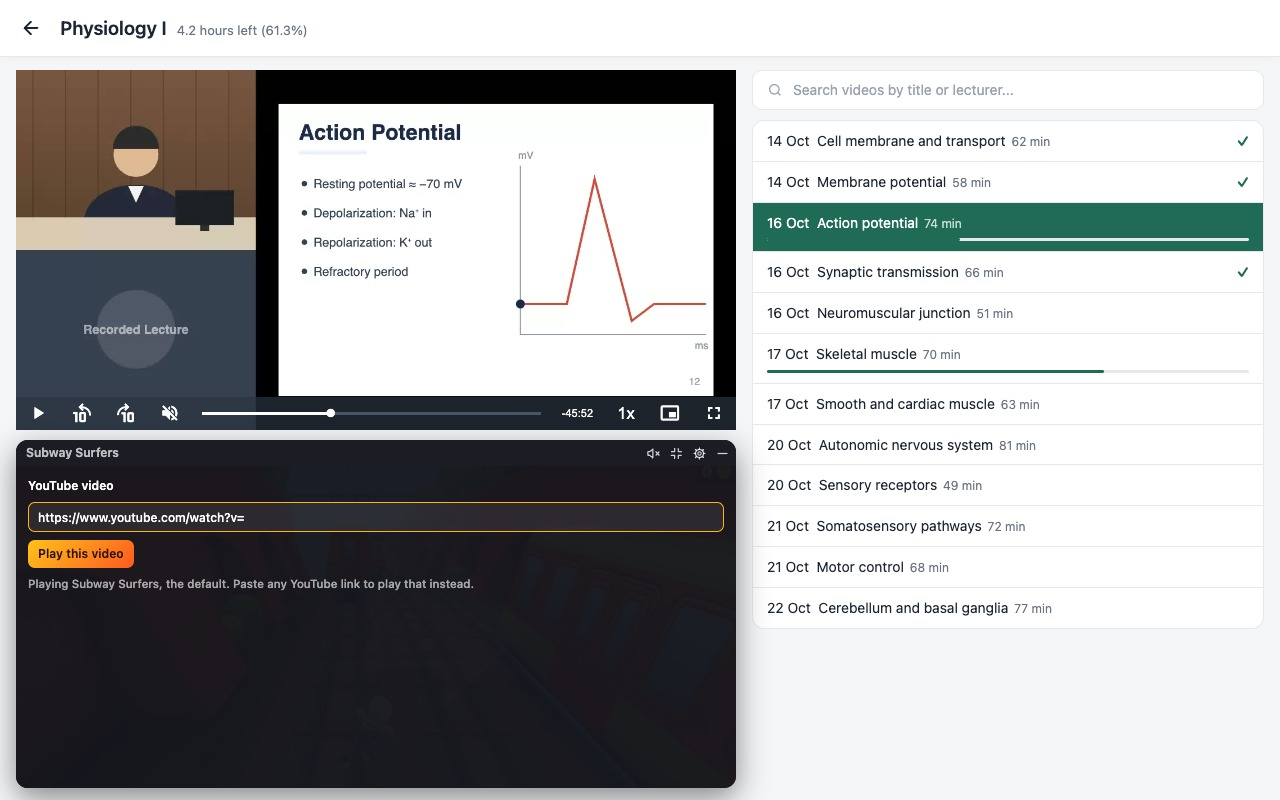
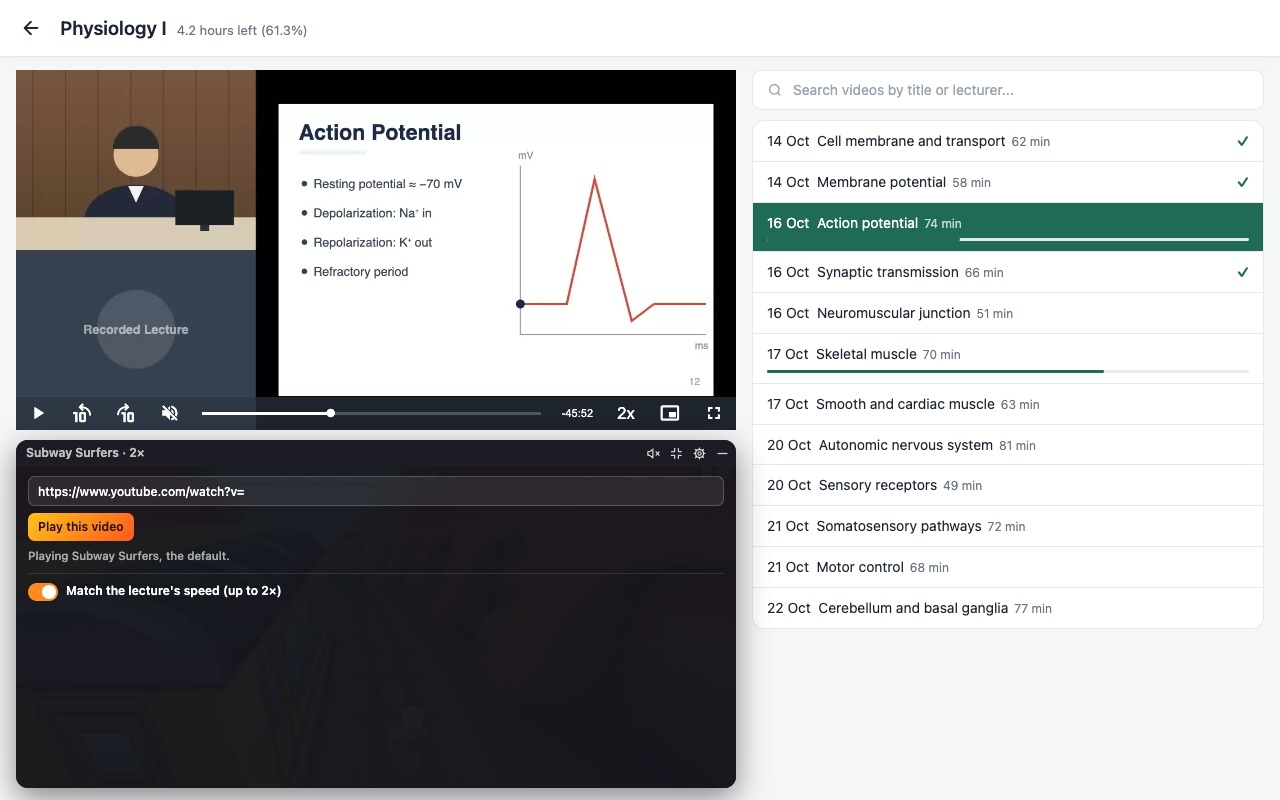
Let the video match the lecture's speed, as a setting that starts off

Changed region(s): [[0.0, 0.5938, 0.5625, 0.75]]

diff --git a/content/surfer.js b/content/surfer.js
@@ -73,6 +73,7 @@
         visible: true,
         fill: true,
         videoId: null,          // null plays DEFAULT_VIDEO; anything else was chosen in settings
+        syncSpeed: false,       // play at the lecture's speed (settings)
         layouts: {
             page: { w: 320, h: 180 + BAR_H, fx: 1, fy: 1 },
             // Null until the window is moved in full screen: until then it is
@@ -80,7 +81,12 @@
             fullscreen: null,
         },
     };
-    const YT_ENDED = 0;         // player state in the IFrame API's vocabulary
+    const YT_ENDED = 0;         // player states in the IFrame API's vocabulary
+    const YT_PLAYING = 1;
+    // The embedded player's speed range. A lecture at 2.5x or 3x gets the
+    // fastest the gameplay can go.
+    const MIN_RATE = 0.25;
+    const MAX_RATE = 2;
     // The IFrame API's onError codes, in words.
     const YT_ERRORS = {
         100: 'This video is private or has been removed.',
@@ -192,12 +198,14 @@
         /* Settings, and the notice for a video that won't play: both cover the video, under the bar. */
         .panel, .notice {
             position: absolute; top: ${BAR_H}px; left: 0; right: 0; bottom: 0; overflow: auto;
-            display: flex; flex-direction: column; gap: 8px; padding: 12px;
+            display: flex; flex-direction: column; gap: 7px; padding: 10px 12px;
             border-radius: 0 0 12px 12px; background: rgba(22, 23, 30, .97);
             font-weight: 500; line-height: 1.35;
+            /* Chrome won't let a label's click flip its switch while text is selected, and
+               the link box opens with its text selected. Nothing else here needs selecting. */
+            user-select: none;
         }
         .notice { justify-content: center; align-items: center; text-align: center; }
-        .panel label { font-weight: 600; }
         .panel input {
             appearance: none; width: 100%; height: 30px; flex: none; padding: 0 9px;
             border: 1px solid rgba(255, 255, 255, .2); border-radius: 7px; outline: none;
@@ -214,6 +222,20 @@
         button.act.primary { background: linear-gradient(135deg, #ffc21a, #ff5a1f); color: #2a1300; }
         .msg { color: rgba(255, 255, 255, .62); font-size: 11.5px; }
         .msg.err { color: #ff9f8f; }
+        .panel hr { width: 100%; height: 1px; margin: 2px 0; border: 0; background: rgba(255, 255, 255, .12); flex: none; }
+        .switch { display: flex; align-items: center; gap: 8px; font-weight: 600; cursor: pointer; }
+        .switch input { position: absolute; opacity: 0; pointer-events: none; }
+        .switch i {
+            position: relative; flex: none; width: 30px; height: 18px; border-radius: 9px;
+            background: rgba(255, 255, 255, .22); transition: background .15s ease;
+        }
+        .switch i::after {
+            content: ''; position: absolute; top: 2px; left: 2px; width: 14px; height: 14px;
+            border-radius: 50%; background: #fff; transition: transform .15s ease;
+        }
+        .switch input:checked + i { background: #ff8a1f; }
+        .switch input:checked + i::after { transform: translateX(12px); }
+        .switch input:focus-visible + i { outline: 2px solid #fff; outline-offset: 2px; }
     `;
 
     const HTML = `
@@ -231,13 +253,16 @@
                 <button class="act revert" type="button">Back to Subway Surfers</button>
             </div>
             <form class="panel" hidden>
-                <label for="fws-url">YouTube video</label>
-                <input id="fws-url" type="text" placeholder="Paste a YouTube link" spellcheck="false" autocomplete="off">
+                <input id="fws-url" type="text" placeholder="Paste a YouTube link" aria-label="YouTube link" spellcheck="false" autocomplete="off">
                 <div class="row">
                     <button class="act primary" type="submit">Play this video</button>
                     <button class="act revert" type="button">Back to Subway Surfers</button>
                 </div>
                 <span class="msg"></span>
+                <hr>
+                <label class="switch" title="At 2× in Flick, the video plays at 2× too. YouTube's player stops at 2×.">
+                    <input class="sync" type="checkbox"><i></i>Match the lecture's speed (up to 2×)
+                </label>
             </form>
             <div class="shield"></div>
             ${['n', 's', 'e', 'w', 'ne', 'nw', 'se', 'sw'].map((d) => `<div class="rz ${d}" data-dir="${d}"></div>`).join('')}
@@ -246,10 +271,12 @@
     `;
 
     let state;                   // set from storage in start()
-    let host, win, stage, bar, pill, soundBtn, fitBtn, titleEl, panel, urlInput, panelMsg, notice;
+    let host, win, stage, bar, pill, soundBtn, fitBtn, titleEl, panel, urlInput, panelMsg, notice, syncBox;
     let frame = null;
     let videoTitle = null;       // the chosen video's title, once YouTube says what it is
     let videoError = null;       // YouTube's onError code for the current video
+    let rateSent = null;         // the speed the frame was last told, or not yet
+    let playerState = null;      // the player's last reported state
     let ready = false;
     let handshake = null;
     let playing = null;          // what the frame was last told: true, false, or not yet
@@ -278,6 +305,7 @@
             visible: typeof s.visible === 'boolean' ? s.visible : DEFAULTS.visible,
             fill: typeof s.fill === 'boolean' ? s.fill : DEFAULTS.fill,
             videoId: isVideoId(s.videoId) ? s.videoId : DEFAULTS.videoId,
+            syncSpeed: typeof s.syncSpeed === 'boolean' ? s.syncSpeed : DEFAULTS.syncSpeed,
             layouts: { page: layout('page'), fullscreen: layout('fullscreen') },
         };
     }
@@ -399,6 +427,12 @@
             setVideo(id === DEFAULT_VIDEO ? null : id);
             closePanel();
         });
+        syncBox = root.querySelector('.sync');
+        syncBox.addEventListener('change', () => {
+            state.syncSpeed = syncBox.checked;
+            save();
+            syncRate();
+        });
         urlInput.addEventListener('keydown', (e) => {
             if (e.key === 'Escape') closePanel();
         });
@@ -419,10 +453,9 @@
     function openPanel() {
         urlInput.value = state.videoId ? `https://youtu.be/${state.videoId}` : '';
         panelMsg.classList.remove('err');
-        panelMsg.textContent = state.videoId
-            ? 'Playing your video. It stays until you change it or go back.'
-            : 'Playing Subway Surfers, the default. Paste any YouTube link to play that instead.';
+        panelMsg.textContent = state.videoId ? 'Playing your video, until you change it.' : 'Playing Subway Surfers, the default.';
         panel.querySelector('.revert').hidden = !state.videoId;
+        syncBox.checked = state.syncSpeed;
         panel.hidden = false;
         urlInput.focus();
         urlInput.select();
@@ -453,7 +486,8 @@
 
     /** The bar's title, and the notice over a video YouTube won't play here. */
     function drawVideo() {
-        titleEl.textContent = state.videoId ? (videoTitle || 'YouTube video') : DEFAULT_TITLE;
+        titleEl.textContent = (state.videoId ? (videoTitle || 'YouTube video') : DEFAULT_TITLE)
+            + (rateSent && rateSent !== 1 ? ` · ${rateSent}×` : '');
         titleEl.title = titleEl.textContent;
         notice.hidden = videoError === null;
         if (videoError !== null) {
@@ -701,6 +735,7 @@
         // over again.
         frame.addEventListener('load', () => {
             ready = false;
+            playerState = null;
             startHandshake();
         });
         stage.prepend(frame);
@@ -754,6 +789,8 @@
             // Anything asked of the player before now was dropped; catch it up.
             playing = null;
             syncPlayback();
+            rateSent = null;
+            syncRate();
             if (!muted) {
                 command('setVolume', [VOLUME]);
                 command('unMute');
@@ -773,8 +810,14 @@
 
         // `loop` restarts the video at the end, but not every embed honours it.
         // If this one stops instead, start it over from here.
-        const playerState = data.event === 'onStateChange' ? data.info
+        const reported = data.event === 'onStateChange' ? data.info
             : (data.info && typeof data.info.playerState === 'number' ? data.info.playerState : null);
+        if (reported === null || reported === playerState) return;
+        playerState = reported;
+        if (playerState === YT_PLAYING && state.syncSpeed) {
+            rateSent = null;    // a restarted or looped video can come back at 1x
+            syncRate();
+        }
         if (playerState === YT_ENDED && playing) {
             command('seekTo', [0, true]);
             command('playVideo');
@@ -787,6 +830,24 @@
         if (!ready || want === playing) return;
         playing = want;
         command(want ? 'playVideo' : 'pauseVideo');
+    }
+
+    /**
+     * Plays the video at the lecture's speed when that's switched on in
+     * settings, and at 1x when it isn't.
+     */
+    function syncRate() {
+        if (!ready) return;     // sent once the player says hello
+        let rate = 1;
+        if (state.syncSpeed) {
+            const lecture = findLecture();
+            const media = lecture && lecture.querySelector('video');
+            if (media && media.playbackRate > 0) rate = clamp(media.playbackRate, MIN_RATE, MAX_RATE);
+        }
+        if (rate === rateSent) return;
+        rateSent = rate;
+        command('setPlaybackRate', [rate]);
+        drawVideo();
     }
 
     // ─────────────────────── Watching the page ───────────────────────
@@ -803,6 +864,7 @@
         // The extension was reloaded or removed: this copy can no longer save
         // or hear the toolbar button, so take the overlay away with it.
         if (!chrome.runtime || !chrome.runtime.id) return teardown();
+        syncRate();
         const on = Boolean(findLecture());
         if (on === lectureOnScreen) return;
         lectureOnScreen = on;
@@ -825,6 +887,9 @@
             if (lectureOnScreen) place();
         });
         document.addEventListener('visibilitychange', syncPlayback);
+        // Media events don't bubble, but a capturing listener on the document
+        // still hears the lecture change speed, the moment it does.
+        document.addEventListener('ratechange', syncRate, true);
 
         chrome.runtime.onMessage.addListener((msg) => {
             if (msg && msg.type === TOGGLE && lectureOnScreen) setVisible(!state.visible);
@@ -836,6 +901,8 @@
             state = normalize(changes[STORE_KEY].newValue);
             drawButtons();
             if (videoId() !== before) loadVideo();
+            syncBox.checked = state.syncSpeed;
+            syncRate();
             if (lectureOnScreen) render();
         });
 

diff --git a/store_assets/LISTING.md b/store_assets/LISTING.md
@@ -10,7 +10,7 @@ Everything the [Chrome Web Store Developer Dashboard](https://chrome.google.com/
 
 ## 1. Package
 
-Run `./build.sh` in the repository root, then upload `flickwaysurfer-1.1.0.zip` (**Items → New item**).
+Run `./build.sh` in the repository root, then upload `flickwaysurfer-1.2.0.zip` (**Items → New item**).
 
 For every update, raise `version` in `manifest.json` first. The store rejects a version it has already seen.
 
@@ -36,6 +36,7 @@ FlickWaySurfer puts Subway Surfers gameplay in a small floating window beside yo
 • Starts muted and loops forever. It pauses whenever it's hidden or you leave the lecture
 • Fill or Fit: crop the gameplay to fill the window, or show all of it
 • Rather watch something else? Paste any YouTube link in the settings, and go back to Subway Surfers with one click. Your choice is saved for next time
+• Match the lecture's speed: switch it on in the settings and the gameplay speeds up with your lecture. Watching at 2×? So is Subway Surfers (up to 2×, YouTube's limit)
 • Remembers its size and spot, separately for the page and for full screen. Double-click the title bar to put it back where it started
 
 How to use
@@ -61,7 +62,7 @@ FlickWaySurfer is an unofficial fan project. It is not affiliated with, endorsed
 | Screenshot 1 | `screenshot_1_1280x800.jpg` | The lecture page, with the window in its corner |
 | Screenshot 2 | `screenshot_2_1280x800.jpg` | Full screen, with the window over the camera third |
 | Screenshot 3 | `screenshot_3_1280x800.jpg` | Split screen, with the window under the lecture |
-| Screenshot 4 | `screenshot_4_1280x800.jpg` | Settings: any YouTube video instead |
+| Screenshot 4 | `screenshot_4_1280x800.jpg` | Settings: any YouTube video, and matching the lecture's speed |
 | Small promo tile | `small_promo_440x280.jpg` | 440×280 |
 | Marquee promo tile | `marquee_promo_1400x560.jpg` | 1400×560 (optional; used if the store features it) |
 
@@ -85,13 +86,13 @@ Shows a muted, looping video (Subway Surfers gameplay by default, or any YouTube
 **Permission justification: storage**
 
 ```
-Remembers the floating window's size, position, visibility, Fill/Fit choice and the YouTube video the user picked, between visits. Stored locally with chrome.storage.local; nothing is sent anywhere.
+Remembers the floating window's size, position, visibility, Fill/Fit choice, the YouTube video the user picked and the speed-matching switch, between visits. Stored locally with chrome.storage.local; nothing is sent anywhere.
 ```
 
 **Host permission justification** (the content script on `https://flick.docchula.com/*`)
 
 ```
-The floating window is drawn on Flick lecture pages, so the content script runs on flick.docchula.com and nowhere else. On the page it only checks whether a lecture video player is on screen and where the lecture's picture is, to show and place the window. It reads no lecture content or account data.
+The floating window is drawn on Flick lecture pages, so the content script runs on flick.docchula.com and nowhere else. On the page it only checks whether a lecture video player is on screen, where the lecture's picture is and (when the user turns speed matching on) its playback speed, to show, place and pace the window. It reads no lecture content or account data.
 ```
 
 **Are you using remote code?** No, I am not using remote code.

diff --git a/README.md b/README.md
@@ -22,6 +22,7 @@ Subway Surfers gameplay in a floating window beside your [Flick](https://flick.d
 | Hide / show | The `–` button on the title bar, the toolbar button, or **Alt+Shift+S** (⌥⇧S on a Mac). Hidden, it folds into a small orange tab on the side of the screen: click the tab to bring it back |
 | Reset | Double-click the title bar to put the window back where it started |
 | Another video | The gear on the title bar: paste any YouTube link and press **Play this video**. **Back to Subway Surfers** returns to the default. Your choice is saved, so it's still there next time |
+| Match the lecture's speed | A switch in the same settings, off at first. Switched on, the video plays at whatever speed the lecture does: 2× in Flick, 2× here. YouTube's player stops at 2×, so faster lectures get 2× |
 | Sound | It starts muted. The speaker button turns the sound on, at a low volume |
 | Fill / Fit | Crop the video to fill the window, or show all of it |
 
@@ -51,4 +52,4 @@ There's no build step for development. After editing, click the reload icon on t
 
 ## Privacy
 
-The extension stores the window's size, position and visibility, and the YouTube video you chose, in `chrome.storage.local`, and nothing else. It makes no network requests of its own. The only thing loaded from outside is YouTube's embedded player, from `youtube-nocookie.com`. See [PRIVACY.md](PRIVACY.md).
+The extension stores the window's size, position and visibility, the YouTube video you chose and the speed switch, in `chrome.storage.local`, and nothing else. It makes no network requests of its own. The only thing loaded from outside is YouTube's embedded player, from `youtube-nocookie.com`. See [PRIVACY.md](PRIVACY.md).

diff --git a/PRIVACY.md b/PRIVACY.md
@@ -6,11 +6,11 @@ FlickWaySurfer does not collect, sell, share or send any personal data. It has n
 
 ## What it stores
 
-The floating window's size, position, whether it is shown, the Fill/Fit choice, and the YouTube video you chose in its settings (if you chose one). These are kept in Chrome's local extension storage (`chrome.storage.local`) on your own computer, never leave your browser, and are deleted when you remove the extension.
+The floating window's size, position, whether it is shown, the Fill/Fit choice, the YouTube video you chose in its settings (if you chose one), and whether it matches the lecture's speed. These are kept in Chrome's local extension storage (`chrome.storage.local`) on your own computer, never leave your browser, and are deleted when you remove the extension.
 
 ## What it reads
 
-The extension runs only on `flick.docchula.com`. There it checks whether a lecture video player is on screen, and where the lecture's picture is, so it can show the window and place it. It does not read lecture content, your Flick account or anything else on the page.
+The extension runs only on `flick.docchula.com`. There it checks whether a lecture video player is on screen, where the lecture's picture is, and (if you switch speed matching on) how fast the lecture is playing, so it can show the window, place it and match its speed. It does not read lecture content, your Flick account or anything else on the page.
 
 ## Third parties
 
